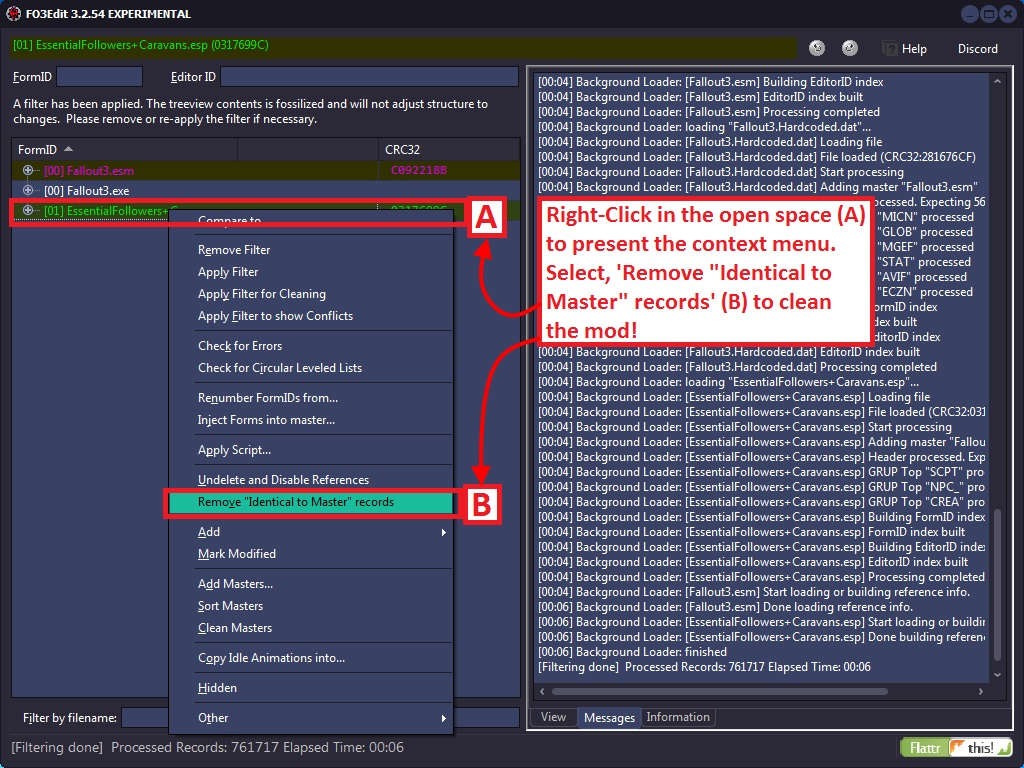
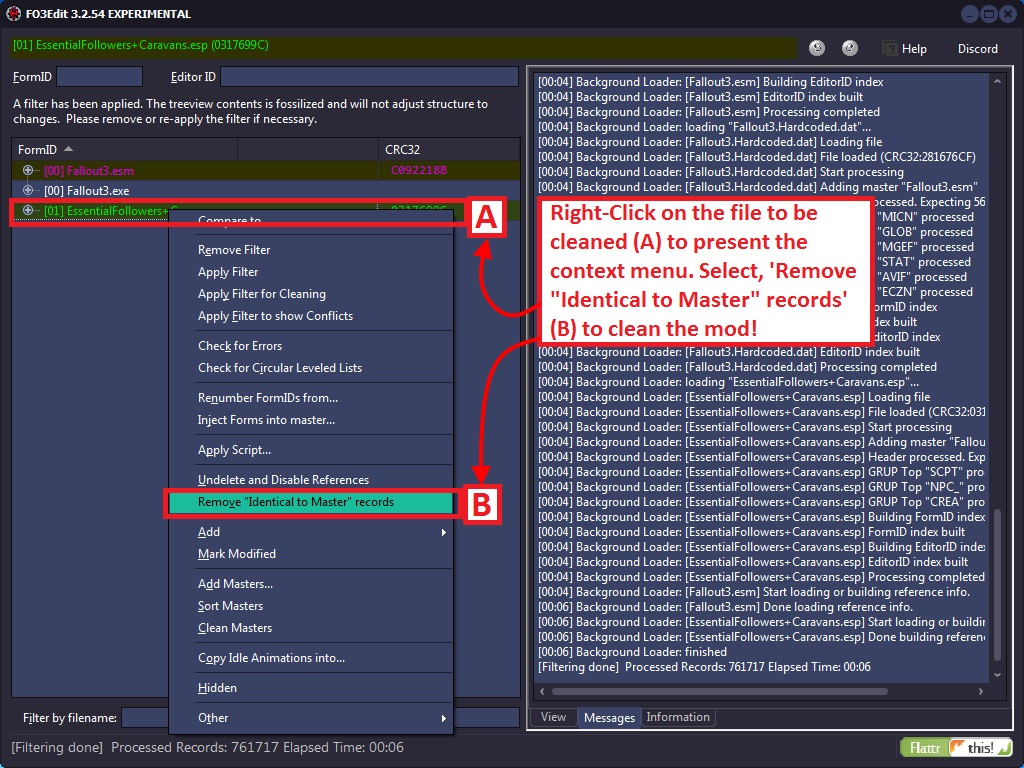
Updated 5.2.2

Changed region(s): [[0.5312, 0.25, 0.8438, 0.4375]]

diff --git a/5-mod-cleaning-and-error-checking.html b/5-mod-cleaning-and-error-checking.html
@@ -161,12 +161,12 @@ title: xEdit Cleaning and-Error Checking
                     <div class="content">
                         <p>The next step in the cleaning process is to Undelete and Disable References from the mod being cleaned. The, "Undelete and Disable References" function scans through the mod and the master files it depends upon, looking for any records that you may have deleted by accident. If it finds some, it will un-delete them and then set the reference to, "disabled" so that it will never be seen in-game nor affect your mod.</p>
                         <div class="p-img">
-                            <p class="img"><img  height="201" src="img/image142.jpg" width="502"></p>
+                            <p class="img"><img src="img/image142.jpg"></p>
                             <p>This ensures that if another mod tweaks/changes the item you deleted, that the item will still be in the files (just disabled), and thus won't cause Fallout3 to crash. If your mod file loads with the item deleted and another mod tries to change it, Fallout3 will crash! L These are among the more serious conflicts that can occur and the reason why it is important for mod authors to run this function as part of the mod cleaning process. The screenshot below illustrates how to activate it:</p>
                         </div>
                         <p>Note that you must Right-click on the mod in the <a href="2-overview.html#s_2-3-2">Navagation treeview</a> to pull the right context menu. In this case you do not want to click on open-space.</p>
                         <div class="p-img">
-                            <p class="img"><img  height="229" src="img/image144.jpg" width="504"></p>
+                            <p class="img"><img src="img/image144.jpg"></p>
                             <p>The screenshot below shows the results, which show the log-file output in two places (A and B) in the <a href="2-overview.html#s_2-3-5">Messages Tab</a> and on the lower status bar:</p>
                         </div>
                         <p>Now we know for sure that other mods will not run into missing references that were a consequence of changes made in the mod your cleaning. With the second step in the cleaning process complete, it's time for the final step.</p>
